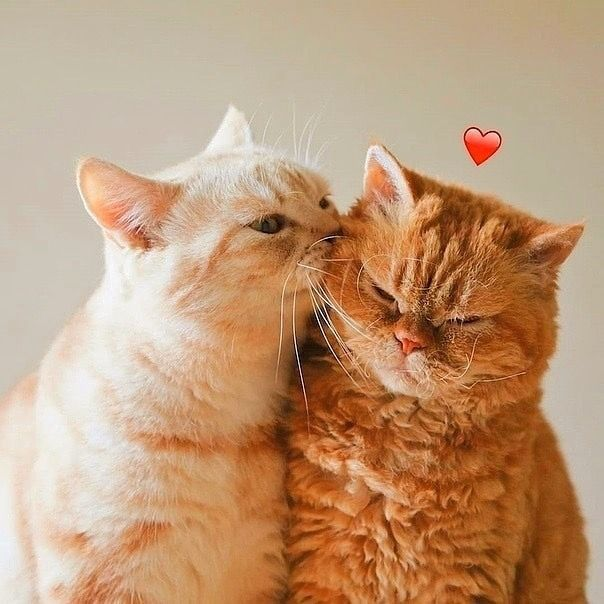
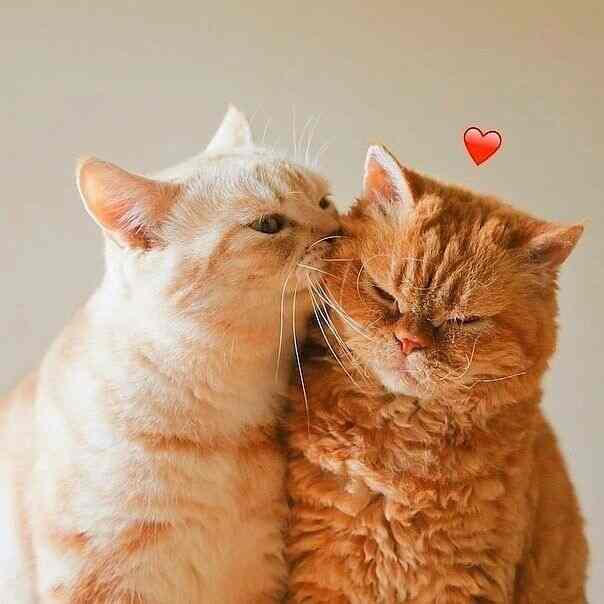
image optimized

diff --git a/helper-text.js b/helper-text.js
@@ -27,7 +27,7 @@ export const textArray = [
     subHeading: "Just one yes. That’s all I’m asking 😭",
     yesBtn: "Okay okay, YES 😂",
     noBtn: "I’m still evil 😑",
-    image: "/cat_4.png",
+    image: "/cat_4.jpg",
   },
   {
     heading: "Looks like you’re stuck with me now 😌❤",
